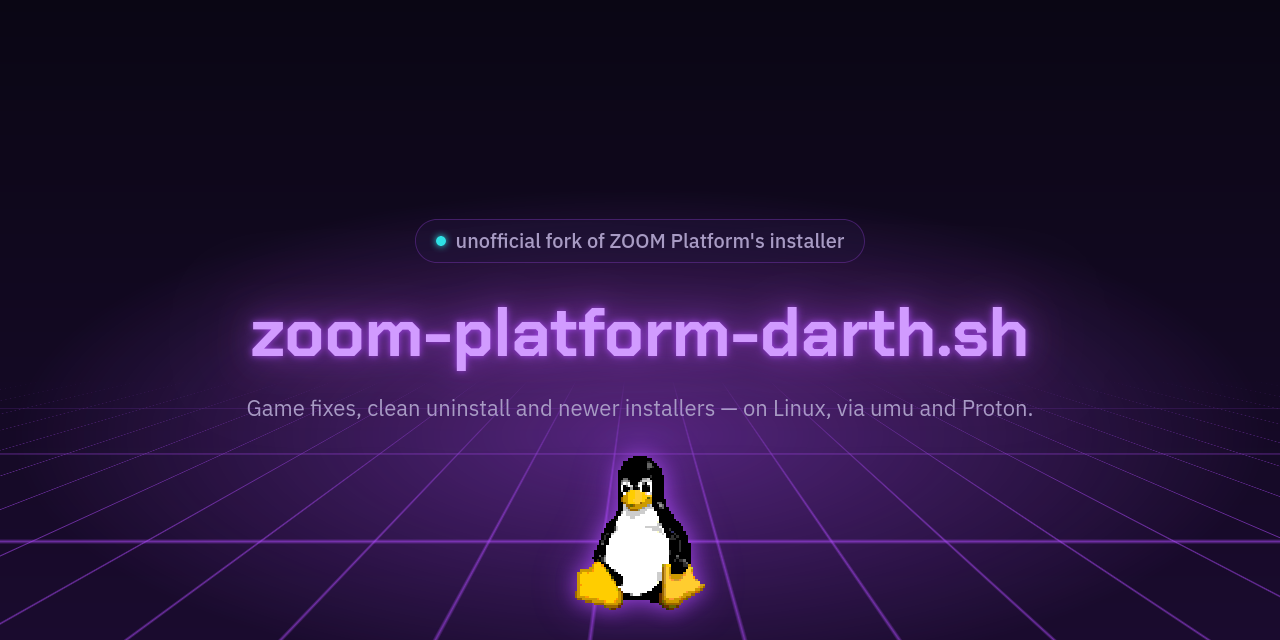
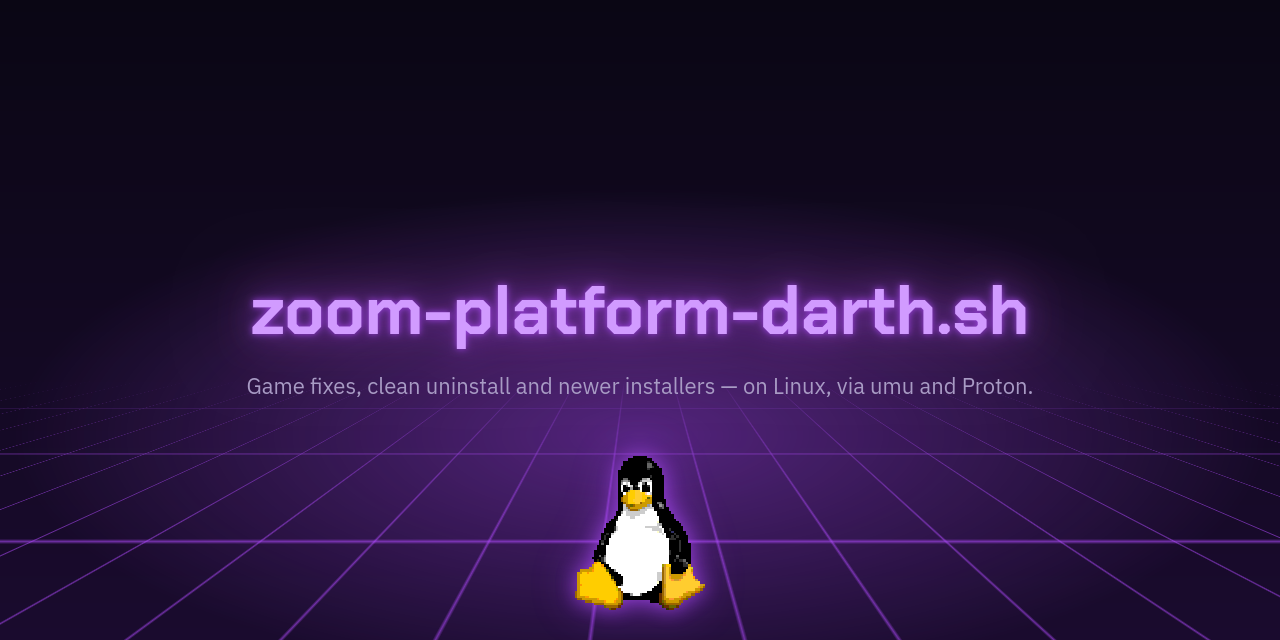
Remove the hero fork badge and drop redundant wording
The pill badge above the wordmark (dot + "unofficial fork of ZOOM
Platform's installer") read as generic AI-template chrome, and was
redundant: the intro paragraph right below already says it in full, and
the footer disclaimer repeats it again. Removed it from index.html and
og.html (bumping hero's top padding to keep the wordmark's position),
and re-rendered og.png.

Also dropped "unofficial" from the footer disclaimer and the README
banner - "fork" already implies that, so "independent, unofficial
fork" said the same thing twice.

Changed region(s): [[0.1875, 0.4375, 0.8125, 0.6562], [0.3438, 0.3438, 0.6562, 0.4062]]

diff --git a/site/index.html b/site/index.html
@@ -118,36 +118,11 @@
       display: flex;
       flex-direction: column;
       align-items: center;
-      padding: 3.5rem 1.25rem 0;
+      padding: 5.5rem 1.25rem 0;
       overflow: hidden;
       background:
         radial-gradient(ellipse 70% 45% at 50% 62%, rgba(177, 75, 255, 0.35), transparent 70%),
         linear-gradient(180deg, var(--bg-0) 0%, var(--bg-1) 100%);
-    }
-
-    .badge {
-      display: inline-flex;
-      align-items: center;
-      gap: 0.5em;
-      font-family: var(--font-body);
-      font-size: 0.8rem;
-      font-weight: 500;
-      color: var(--ink-dim);
-      border: 1px solid var(--glass-border);
-      background: var(--glass-bg);
-      backdrop-filter: blur(8px);
-      padding: 0.4em 0.9em;
-      border-radius: 999px;
-      letter-spacing: 0.02em;
-    }
-
-    .badge .dot {
-      width: 0.45em;
-      height: 0.45em;
-      border-radius: 50%;
-      background: var(--cyan);
-      box-shadow: 0 0 6px var(--cyan);
-      flex: none;
     }
 
     .wordmark {
@@ -522,7 +497,6 @@
 
 <body>
   <div class="hero">
-    <span class="badge"><span class="dot"></span>unofficial fork of ZOOM Platform's installer</span>
     <h1 class="wordmark">zoom-platform-darth.sh</h1>
     <p class="tagline">Installs ZOOM Platform's Windows games on Linux, with fixes that haven't reached the official
       script yet.</p>
@@ -659,8 +633,8 @@
   </main>
 
   <footer>
-    <p class="disclaimer">zoom-platform-darth.sh is an independent, unofficial fork of ZOOM Platform's installer
-      script. It is not endorsed by, affiliated with, or supported by ZOOM Platform.</p>
+    <p class="disclaimer">zoom-platform-darth.sh is an independent fork of ZOOM Platform's installer script. It is
+      not endorsed by, affiliated with, or supported by ZOOM Platform.</p>
     <div class="links">
       <a href="https://github.com/DarthSidiousPT/zoom-platform-darth.sh">Source (BSD-3)</a>
       <a href="https://github.com/DarthSidiousPT/zoom-platform-darth.sh/discussions">Discussions</a>

diff --git a/site/og.html b/site/og.html
@@ -35,27 +35,6 @@
         linear-gradient(180deg, #0a0614 0%, #1a0b2e 100%);
     }
 
-    .badge {
-      display: inline-flex;
-      align-items: center;
-      gap: 0.5em;
-      font-size: 20px;
-      font-weight: 500;
-      color: #a89bc4;
-      border: 1px solid rgba(177, 75, 255, 0.28);
-      background: rgba(30, 18, 54, 0.5);
-      padding: 8px 20px;
-      border-radius: 999px;
-    }
-
-    .badge .dot {
-      width: 10px;
-      height: 10px;
-      border-radius: 50%;
-      background: #2de2e6;
-      box-shadow: 0 0 8px #2de2e6;
-    }
-
     h1 {
       font-family: 'Chakra Petch', sans-serif;
       font-weight: 700;
@@ -104,7 +83,6 @@
 
 <body>
   <div class="stage">
-    <span class="badge"><span class="dot"></span>unofficial fork of ZOOM Platform's installer</span>
     <h1>zoom-platform-darth.sh</h1>
     <p>Game fixes, clean uninstall and newer installers &mdash; on Linux, via umu and Proton.</p>
     <div class="grid-plane"></div>

diff --git a/README.md b/README.md
@@ -8,8 +8,8 @@
 > fork of doZennn's ZOOM-patched fork), and stays current instead of waiting on upstream's
 > release cadence.
 >
-> This is an independent, unofficial fork - it is not endorsed by, affiliated with, or
-> supported by ZOOM Platform. Install with:
+> This is an independent fork - it is not endorsed by, affiliated with, or supported by
+> ZOOM Platform. Install with:
 > ```
 > curl -L darthsidiouspt.github.io/zoom-platform-darth.sh/i | sh
 > ```
